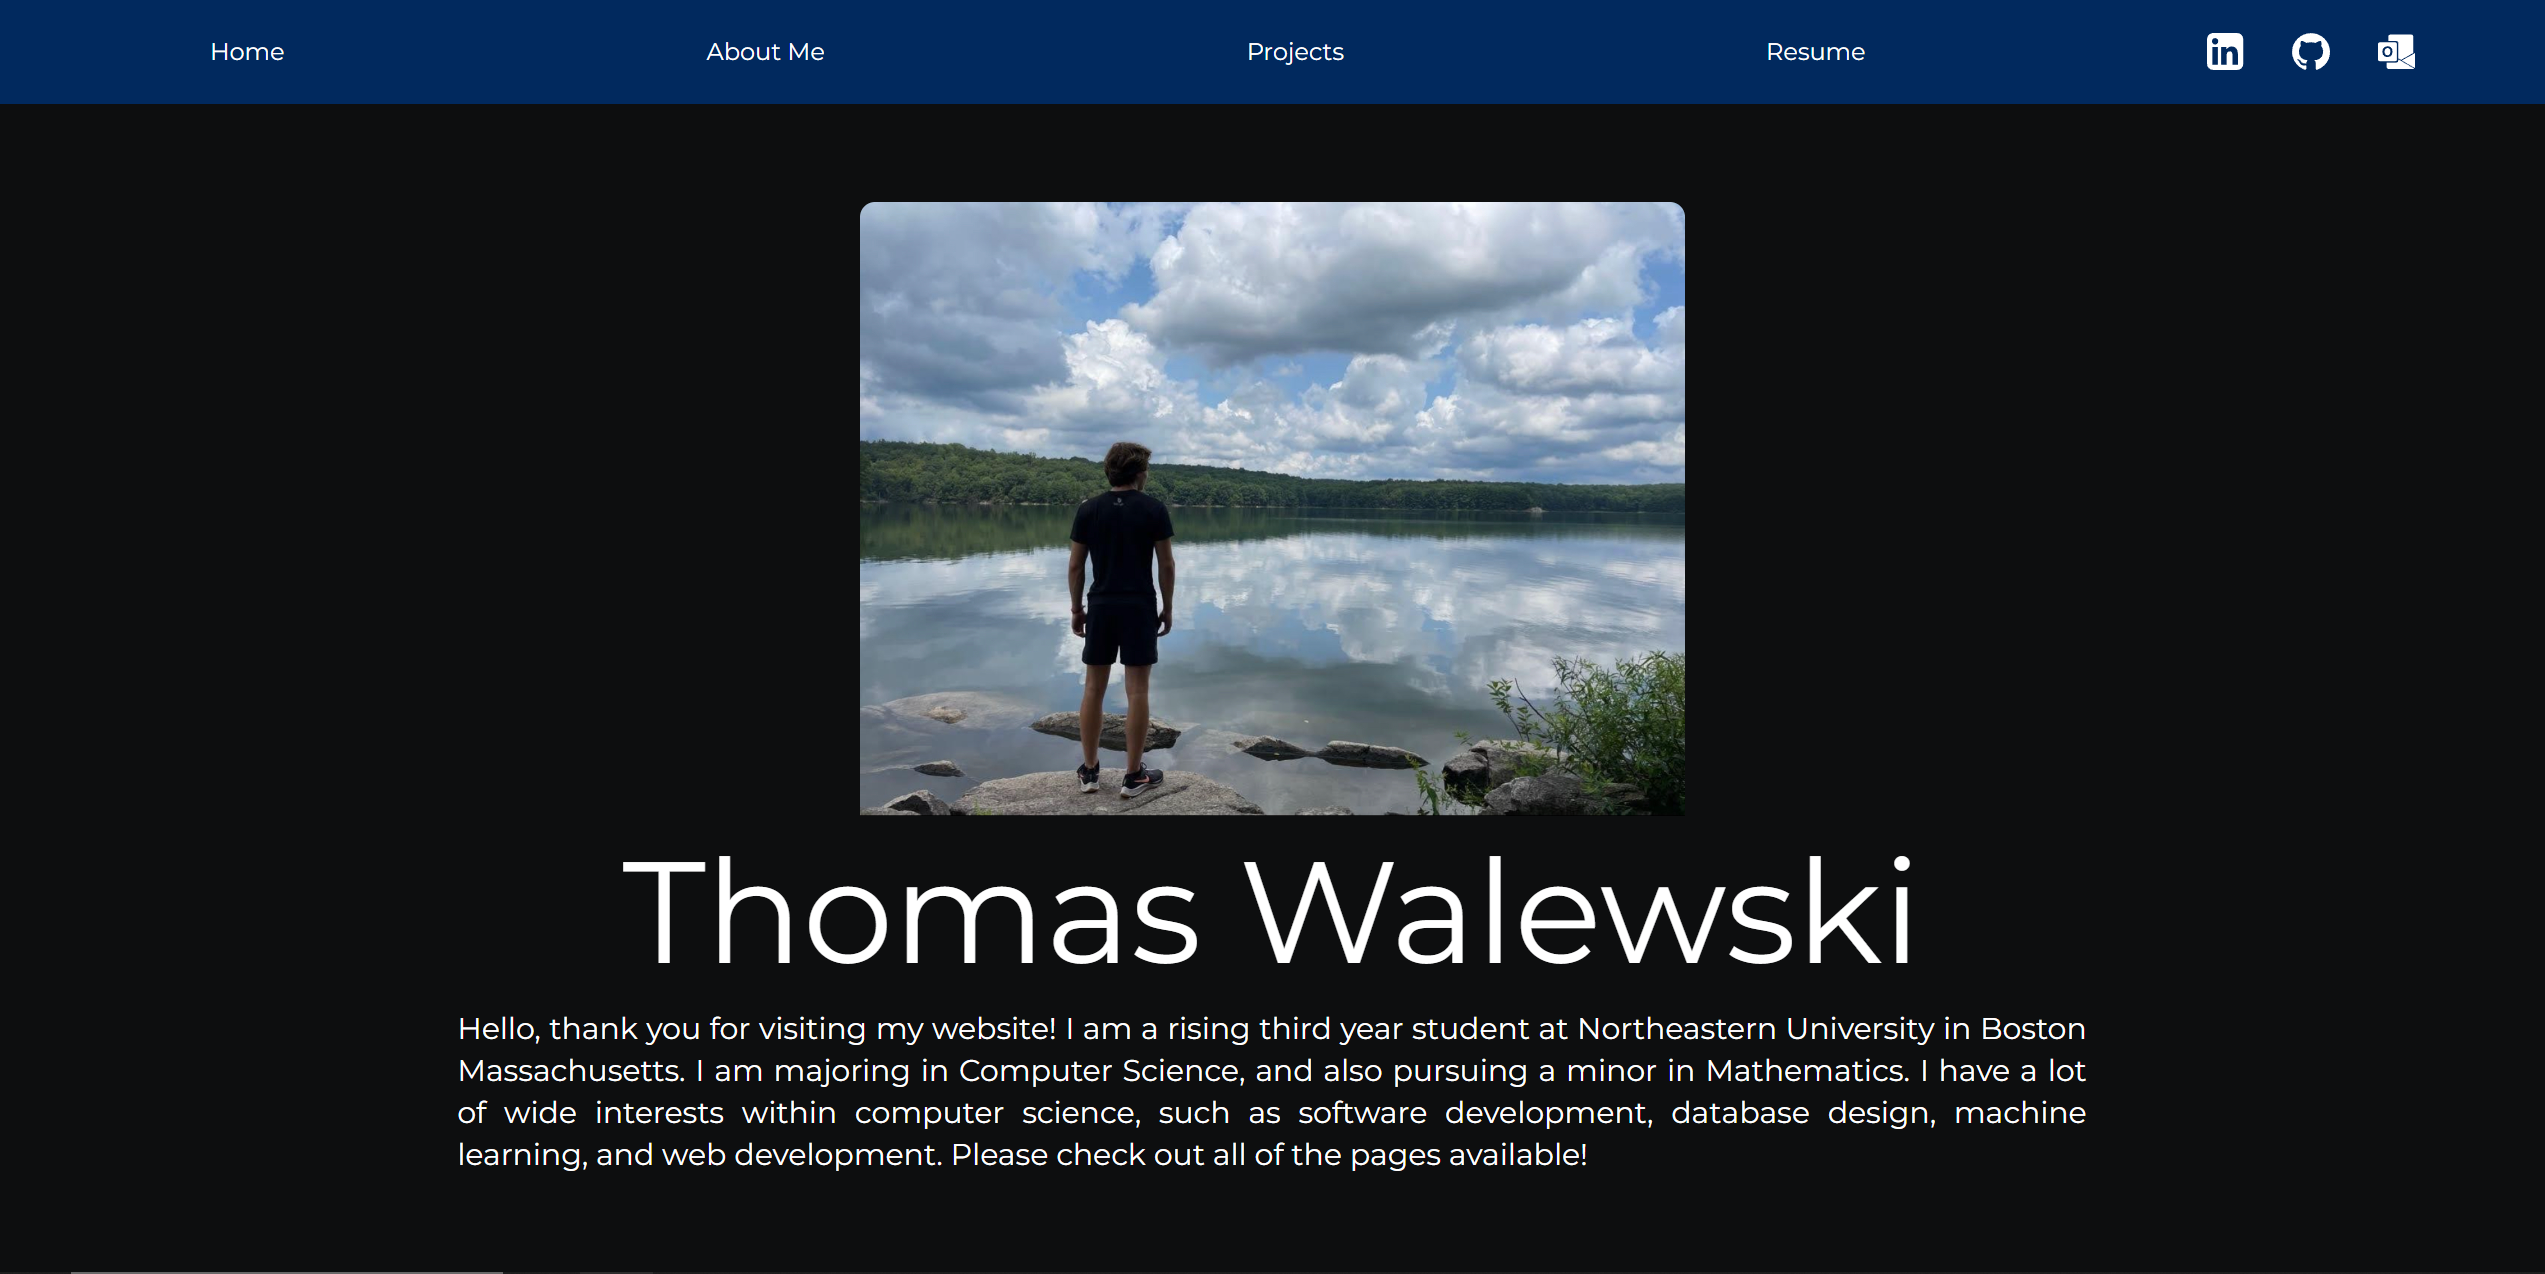
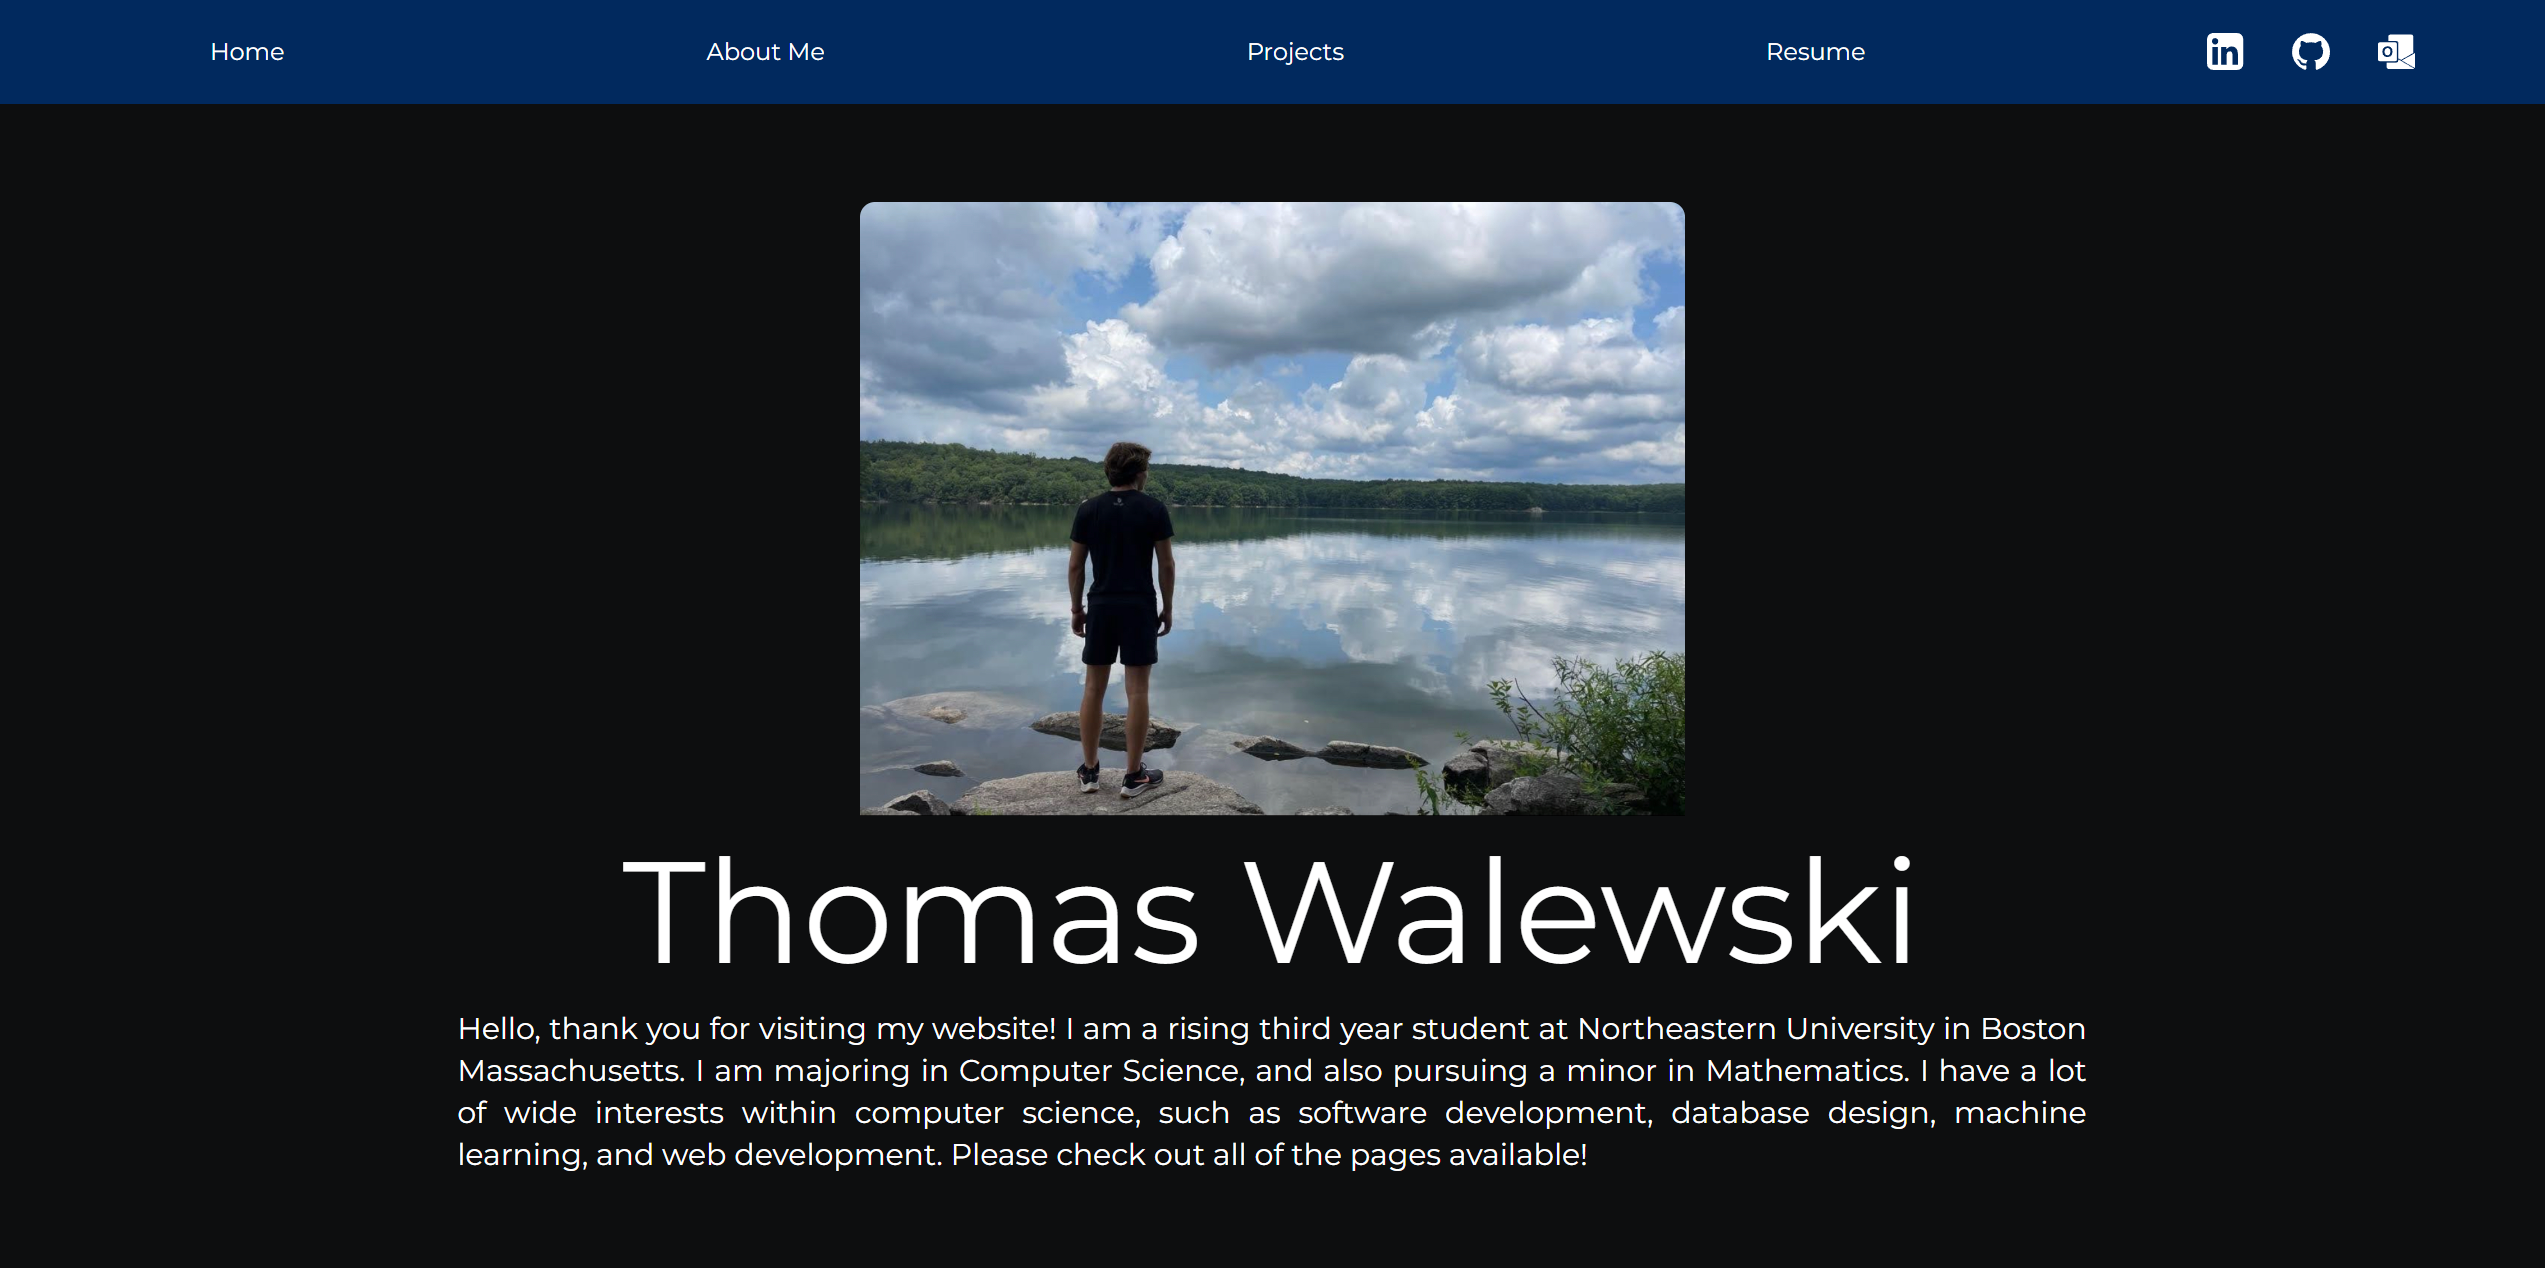
mq changes

diff --git a/src/app/projects/page.js b/src/app/projects/page.js
@@ -53,11 +53,11 @@ export default function Projects() {
                         <p>A table of the exact results for the CNN.</p>
                         <div className='about-desc-flex'>
                             <div>
-                                <img src="images/AI/ConfMatrix.png" className='h-4/5' />
+                                <img src="images/AI/ConfMatrix.png" className='h-4/5 block' />
                                 <p>A confusion matrix for our final CNN model.</p>
                             </div>
                             <div>
-                                <img src="images/AI/3.jpg" className='h-4/5 w-auto' />
+                                <img src="images/AI/3.jpg" className='h-4/5 block' />
                                 <p>An example CT Scan image.</p>
                             </div>
                         </div>
@@ -140,9 +140,9 @@ export default function Projects() {
                         Here are some examples of the resulting images downloaded from the editor. There is an image with the left
                         half sharpened and one that has had a mosaic operation done to the entirety of it.
                     </h2>
-                    <div className="justify-center flex" width="95%">
-                        <img src="images/PhotoEditor/tangelosharp.jpg" className='p-4' width="45%" />
-                        <img src="images/PhotoEditor/TangMosaic.png" classname='p-4' width="45%" />
+                    <div className="justify-center sm:flex" width="95%">
+                        <img src="images/PhotoEditor/tangelosharp.jpg" className='p-4 sm:w-1/2 h-auto' />
+                        <img src="images/PhotoEditor/TangMosaic.png" className='p-4 sm:w-1/2 h-auto' />
                     </div>
                     <h2 className='text-justify text-md sm:text-lg'>
                         The code for this project is closed due to academic integrity standards, so unfortunately there is no link to

diff --git a/src/app/style.css b/src/app/style.css
@@ -12,6 +12,15 @@
   color: white;
 }
 
+body {
+  background-color: #0d0e0f;
+  margin: 0;
+}
+
+header {
+  background-color: #01295e;
+}
+
 ::-webkit-scrollbar {
   width: 10px;
   background: #1f2123;
@@ -30,11 +39,6 @@
   html {
     scroll-behavior: smooth;
   }
-}
-
-header {
-  display: flex;
-  background-color: #04070c;
 }
 
 a:link {
@@ -95,12 +99,11 @@ a:active {
   height: fit-content;
   overflow: hidden;
   justify-content: center;
-  padding-top: 0px;
+  padding-top: 20px;
   padding-left: 70px;
   padding-right: 70px;
   padding-bottom: 20px;
   min-width: 360px;
-  min-height: 500px;
 }
 
 .project {
@@ -217,6 +220,7 @@ a:active {
     align-items: center;
     flex-direction: column;
     min-height: fit-content;
+    width: auto;
     padding-bottom: 20px;
   }
 
@@ -228,18 +232,21 @@ a:active {
   }
 
   .project-back {
-    padding-top: 0px;
     padding-left: 10px;
     padding-right: 10px;
-    margin-top: 95px;
+  }
+
+  .home-back {
+    padding-left: 10px;
+    padding-right: 10px;
   }
 
   #intro {
+    min-height: calc(100vh - 75px);
     height: auto;
     display: flex;
     justify-content: center;
     align-items: center;
-    min-height: fit-content;
   }
 
   .cover-photo {
@@ -249,8 +256,11 @@ a:active {
 
   @media (max-width: 600px) {
     .home-back {
-      margin-top: 95px;
-      padding: 20px;
+      margin-top: 75px;
+    }
+
+    .project-back {
+      margin-top: 75px;
     }
   }
 }

diff --git a/src/app/nav.js b/src/app/nav.js
@@ -7,10 +7,10 @@ export default function NavBar() {
     return (
         <nav>
             <ul className="nav_links">
-                <li className="p-2"><a href="/#"> Home </a></li>
-                <li className="p-2"><a href="/#about"> About Me</a></li>
-                <li className="p-2"><Link href="/projects"> Projects </Link></li>
-                <li className="p-2"><a href="./files/Resume.pdf" target="_blank"> Resume </a></li>
+                <li className="sm:p-2"><a href="/#"> Home </a></li>
+                <li className="sm:p-2"><a href="/#about"> About Me</a></li>
+                <li className="sm:p-2"><Link href="/projects"> Projects </Link></li>
+                <li className="sm:p-2"><a href="./files/Resume.pdf" target="_blank"> Resume </a></li>
             </ul>
             <div className="socials">
                 <a className="logo" href="https://www.linkedin.com/in/thomaswalewski/" title='LinkedIn' target="_blank" rel="noopener noreferrer">

diff --git a/src/app/page.js b/src/app/page.js
@@ -14,7 +14,7 @@ export default function Main() {
               <img src="images/Res.jpg" className="w-7/8 md:w-2/4 mt-5 lg:mt-0 rounded-xl" />
             </div>
             <h1 className="sm:text-8xl title-name text-5xl text-center font-normal pb-4">Thomas Walewski</h1>
-            <h2 className="text-justify text-md sm:text-lg w-6/8 sm:w-4/6">
+            <h2 className="text-justify text-md sm:text-lg w-6/8 sm:w-4/6 pl-3 pr-3 ">
               Hello, thank you for visiting my website! I am a rising third year student at Northeastern University in
               Boston Massachusetts. I am majoring in Computer Science, and also pursuing a minor in Mathematics. I have a lot
               of wide interests within computer science, such as software development, database design, machine

diff --git a/src/app/layout.js b/src/app/layout.js
@@ -1,16 +1,22 @@
 import './globals.css'
 import { Inter } from 'next/font/google'
+import Head from 'next/head';
 
 const inter = Inter({ subsets: ['latin'] })
 
 export const metadata = {
   title: 'Thomas Walewski',
   description: 'Generated by create next app',
+
 }
 
 export default function RootLayout({ children }) {
   return (
     <html lang="en" style={{ scrollBehavior: 'smooth' }}>
+      <Head>
+        <meta charSet="utf-8" />
+        <meta name="viewport" content="width=device-width, initial-scale=1" />
+      </Head>
       <body className={inter.className}>{children}</body>
     </html>
   )

diff --git a/src/app/GithubLink.js b/src/app/GithubLink.js
@@ -2,7 +2,7 @@ import './githublink.css'
 
 export default function GithubLink(props) {
     return (
-        <div className='p-2 sm:pb-0 sm:pt-0 flex items-center justify-center'>
+        <div className='p-2 pl-3 sm:pb-0 sm:pt-0 flex items-center justify-center'>
             <a className="logo" href={props.link} title='Github' target="_blank" rel="noopener noreferrer">
                 <svg width="25" height="25" viewBox="0 0 48 48" fill="white" xmlns="http://www.w3.org/2000/svg">
                     <path

diff --git a/src/app/nav.css b/src/app/nav.css
@@ -93,7 +93,7 @@ a:active {
 @media (max-width: 600px) {
   nav {
     display: inline;
-    min-height: 95px;
+    min-height: 75px;
   }
 
   .nav_links {
